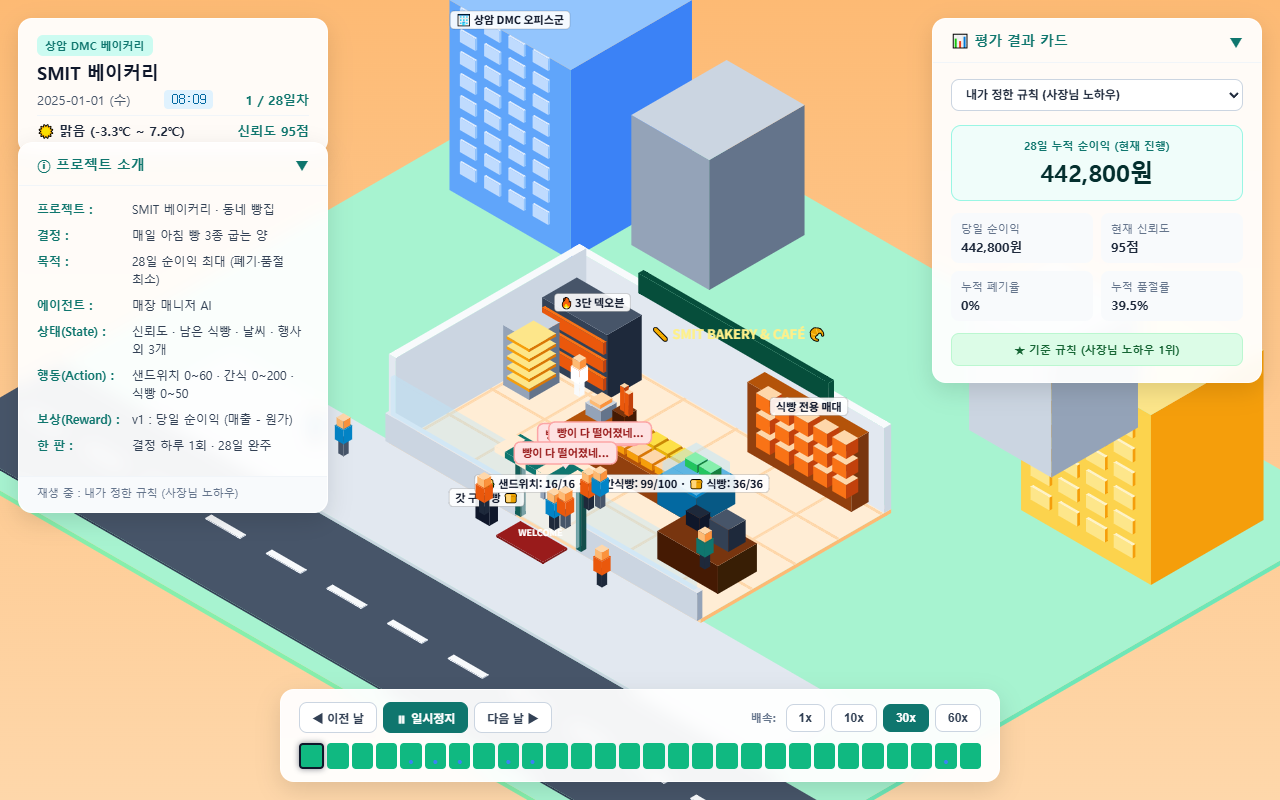
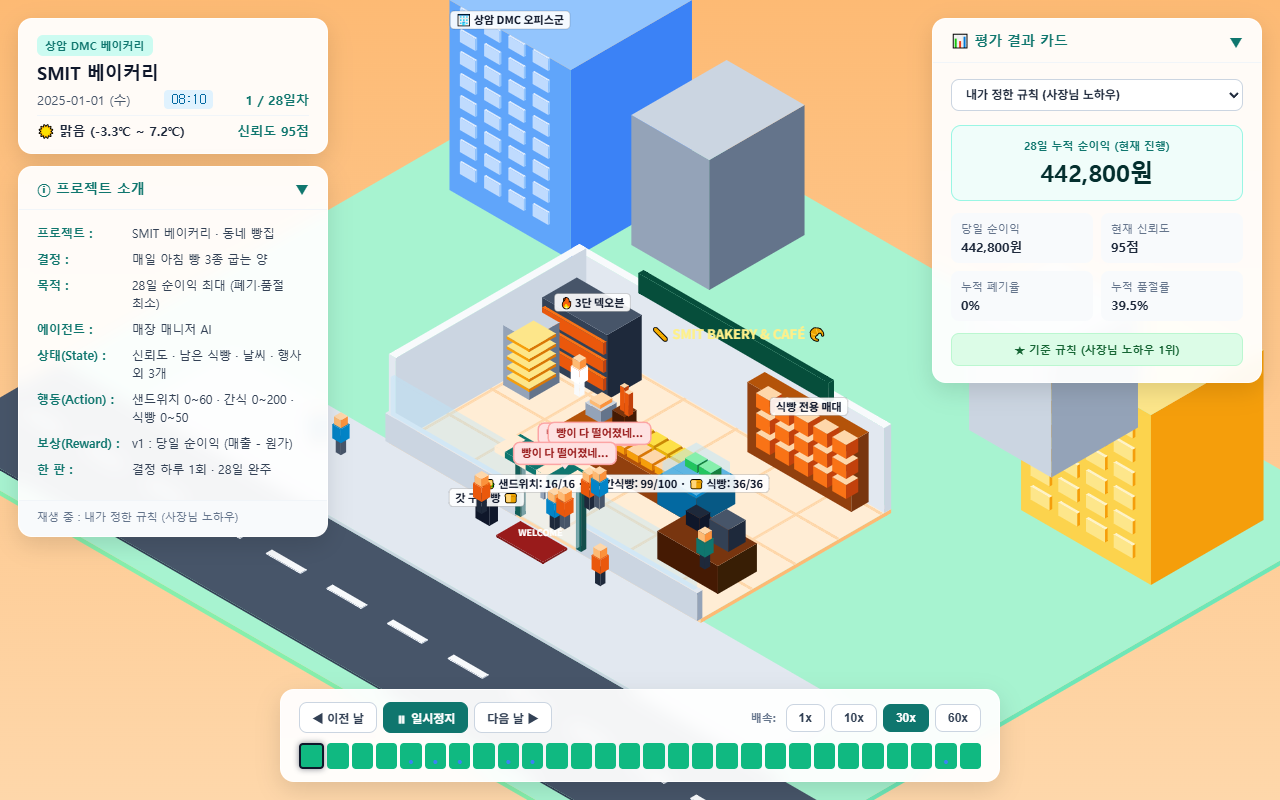
fix: resolve card overlap in left sidebar of index.html

diff --git a/public/index.html b/public/index.html
@@ -22,9 +22,26 @@
       transition: all 0.25s ease;
     }
     
+    /* ── 왼쪽 사이드바 (두 카드가 절대 겹치지 않도록 flex 레이아웃 적용) ── */
+    #leftSidebar {
+      position: absolute;
+      top: 18px;
+      left: 18px;
+      width: 310px;
+      display: flex;
+      flex-direction: column;
+      gap: 12px;
+      z-index: 10;
+      pointer-events: none;
+    }
+    #leftSidebar .card {
+      position: static;
+      pointer-events: auto;
+    }
+    
     /* ── 왼쪽 위 작은 카드 ── */
     #topMiniCard {
-      top: 18px; left: 18px; width: 310px; padding: 14px 18px;
+      width: 100%; padding: 14px 18px;
     }
     .store-badge { font-size: 11px; font-weight: 700; color: #0f766e; background: #ccfbf1; padding: 3px 8px; border-radius: 6px; display: inline-block; margin-bottom: 4px; }
     .store-title { font-size: 18px; font-weight: 800; color: #0f172a; margin-bottom: 6px; }
@@ -34,7 +51,7 @@
 
     /* ── 왼쪽 프로젝트 소개 카드 ── */
     #introCard {
-      top: 142px; left: 18px; width: 310px; max-height: calc(100vh - 270px); overflow-y: auto;
+      width: 100%; max-height: calc(100vh - 230px); overflow-y: auto;
     }
     .card-header-toggle {
       display: flex; justify-content: space-between; align-items: center; padding: 12px 18px; cursor: pointer; user-select: none;
@@ -92,39 +109,42 @@
   <!-- 아이소메트릭 2D 캔버스 -->
   <canvas id="mainCanvas"></canvas>
 
-  <!-- 1. 왼쪽 위 작은 카드 -->
-  <div class="card" id="topMiniCard">
-    <div class="store-badge">상암 DMC 베이커리</div>
-    <div class="store-title" id="dispStoreName">SMIT 베이커리</div>
-    <div class="date-row">
-      <span id="dispDate">2025-01-01 (수)</span>
-      <span class="clock-badge" id="dispTime">08:00</span>
-      <span id="dispDayNum" style="font-weight:700; color:#0f766e;">1 / 28일차</span>
-    </div>
-    <div class="weather-row">
-      <span id="dispWeather">☀ 맑음 (-5.0℃ ~ 2.0℃)</span>
-      <span id="dispTrustBadge" style="color:#0f766e;">신뢰도 100점</span>
-    </div>
-  </div>
-
-  <!-- 2. 왼쪽 프로젝트 소개 카드 -->
-  <div class="card" id="introCard">
-    <div class="card-header-toggle" onclick="toggleCard('introBody', 'introToggleIcon')">
-      <span>ⓘ 프로젝트 소개</span>
-      <span id="introToggleIcon">▼</span>
-    </div>
-    <div id="introBody">
-      <div class="intro-body">
-        <div class="intro-row"><div class="intro-label">프로젝트 :</div><div class="intro-val">SMIT 베이커리 · 동네 빵집</div></div>
-        <div class="intro-row"><div class="intro-label">결정 :</div><div class="intro-val">매일 아침 빵 3종 굽는 양</div></div>
-        <div class="intro-row"><div class="intro-label">목적 :</div><div class="intro-val">28일 순이익 최대 (폐기·품절 최소)</div></div>
-        <div class="intro-row"><div class="intro-label">에이전트 :</div><div class="intro-val">매장 매니저 AI</div></div>
-        <div class="intro-row"><div class="intro-label">상태(State) :</div><div class="intro-val">신뢰도 · 남은 식빵 · 날씨 · 행사 외 3개</div></div>
-        <div class="intro-row"><div class="intro-label">행동(Action) :</div><div class="intro-val">샌드위치 0~60 · 간식 0~200 · 식빵 0~50</div></div>
-        <div class="intro-row"><div class="intro-label">보상(Reward) :</div><div class="intro-val">v1 : 당일 순이익 (매출 - 원가)</div></div>
-        <div class="intro-row"><div class="intro-label">한 판 :</div><div class="intro-val">결정 하루 1회 · 28일 완주</div></div>
+  <!-- 왼쪽 사이드바 (겹침 방지 컨테이너) -->
+  <div id="leftSidebar">
+    <!-- 1. 왼쪽 위 작은 카드 -->
+    <div class="card" id="topMiniCard">
+      <div class="store-badge">상암 DMC 베이커리</div>
+      <div class="store-title" id="dispStoreName">SMIT 베이커리</div>
+      <div class="date-row">
+        <span id="dispDate">2025-01-01 (수)</span>
+        <span class="clock-badge" id="dispTime">08:00</span>
+        <span id="dispDayNum" style="font-weight:700; color:#0f766e;">1 / 28일차</span>
       </div>
-      <div class="intro-footer" id="dispActivePolicyName">재생 중 : 내가 정한 규칙 (사장님 노하우)</div>
+      <div class="weather-row">
+        <span id="dispWeather">☀ 맑음 (-5.0℃ ~ 2.0℃)</span>
+        <span id="dispTrustBadge" style="color:#0f766e;">신뢰도 100점</span>
+      </div>
+    </div>
+
+    <!-- 2. 왼쪽 프로젝트 소개 카드 -->
+    <div class="card" id="introCard">
+      <div class="card-header-toggle" onclick="toggleCard('introBody', 'introToggleIcon')">
+        <span>ⓘ 프로젝트 소개</span>
+        <span id="introToggleIcon">▼</span>
+      </div>
+      <div id="introBody">
+        <div class="intro-body">
+          <div class="intro-row"><div class="intro-label">프로젝트 :</div><div class="intro-val">SMIT 베이커리 · 동네 빵집</div></div>
+          <div class="intro-row"><div class="intro-label">결정 :</div><div class="intro-val">매일 아침 빵 3종 굽는 양</div></div>
+          <div class="intro-row"><div class="intro-label">목적 :</div><div class="intro-val">28일 순이익 최대 (폐기·품절 최소)</div></div>
+          <div class="intro-row"><div class="intro-label">에이전트 :</div><div class="intro-val">매장 매니저 AI</div></div>
+          <div class="intro-row"><div class="intro-label">상태(State) :</div><div class="intro-val">신뢰도 · 남은 식빵 · 날씨 · 행사 외 3개</div></div>
+          <div class="intro-row"><div class="intro-label">행동(Action) :</div><div class="intro-val">샌드위치 0~60 · 간식 0~200 · 식빵 0~50</div></div>
+          <div class="intro-row"><div class="intro-label">보상(Reward) :</div><div class="intro-val">v1 : 당일 순이익 (매출 - 원가)</div></div>
+          <div class="intro-row"><div class="intro-label">한 판 :</div><div class="intro-val">결정 하루 1회 · 28일 완주</div></div>
+        </div>
+        <div class="intro-footer" id="dispActivePolicyName">재생 중 : 내가 정한 규칙 (사장님 노하우)</div>
+      </div>
     </div>
   </div>
 

diff --git a/project_spec.md b/project_spec.md
@@ -112,3 +112,4 @@
 | 2026-11-12 | v1 정책 39회 시뮬레이션 평가 및 run.py 메뉴 구축 | 환경 타당성 검증 조건과 동일한 v1 평가 및 통합 실행 환경 구축 | simulate.py에 rl_v1 정책 평가 추가, results/summary_v1.md 비교 보고서 작성, run.py 5개 통합 메뉴 구축 및 run_execution_history.csv 자동 누적 연동 |
 | 2026-11-12 | Vercel 배포 설정 파일(vercel.json) 추가 | 브라우저에서 매장 재생 화면을 인터넷에 무료 호스팅 | vercel.json(outputDirectory: public) 생성 후 GitHub 푸시 연동 완료 |
 | 2026-11-12 | Vercel 정적 사이트 빌드 명령 오버라이드 | pyproject.toml로 인한 Vercel Python 엔트리포인트 검색 에러 해결 | vercel.json에 buildCommand/installCommand 오버라이드를 추가하여 순수 정적 웹 호스팅으로 지정 |
+| 2026-11-12 | public/index.html 좌측 사이드바 겹침 해결 | 프로젝트 소개 카드가 상단 미니 카드와 맞붙거나 겹치는 UI 버그 수정 | #leftSidebar flex 컨테이너(gap: 12px)로 묶어 카드 간 12px 독립 여백 확보 및 반응형 정돈 완료 |
